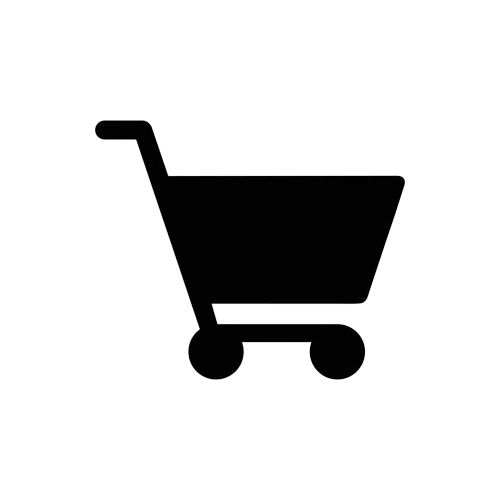
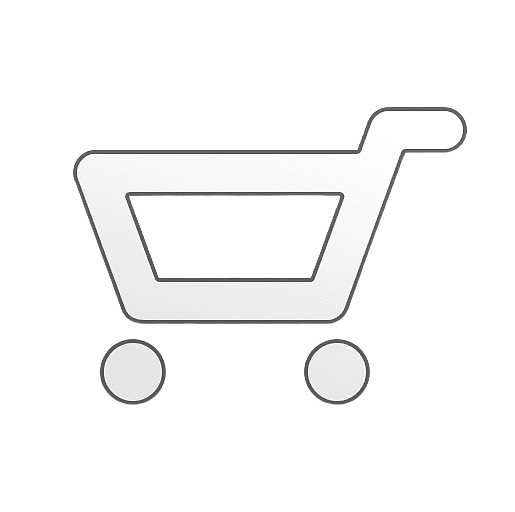
Updated cart aesthetic

Changed region(s): [[0.12, 0.24, 0.81, 0.81], [0.72, 0.21, 0.93, 0.3]]

diff --git a/HTML-TEC/all_album.html b/HTML-TEC/all_album.html
@@ -64,7 +64,7 @@
 
 <!--Shopping Cart-->
 <div id="shopping-cart-container">
-  <p>Cart</p>
+  <p style="color: white;">Cart</p>
   <img id="cart-icon" src="../Images/cart.png" alt="shopping cart icon" width="50" height="50">
   
   <div id="cart-popup">

diff --git a/CSS/the-echo-chamber-style.css b/CSS/the-echo-chamber-style.css
@@ -242,7 +242,7 @@ body {
     top: 110px;
     right: 10px;
     padding: 15px;
-    background-color: #b1b1b1;
+    background-color: #242424;
     text-align: center;
     border-radius: 5px;
     z-index: 11;
